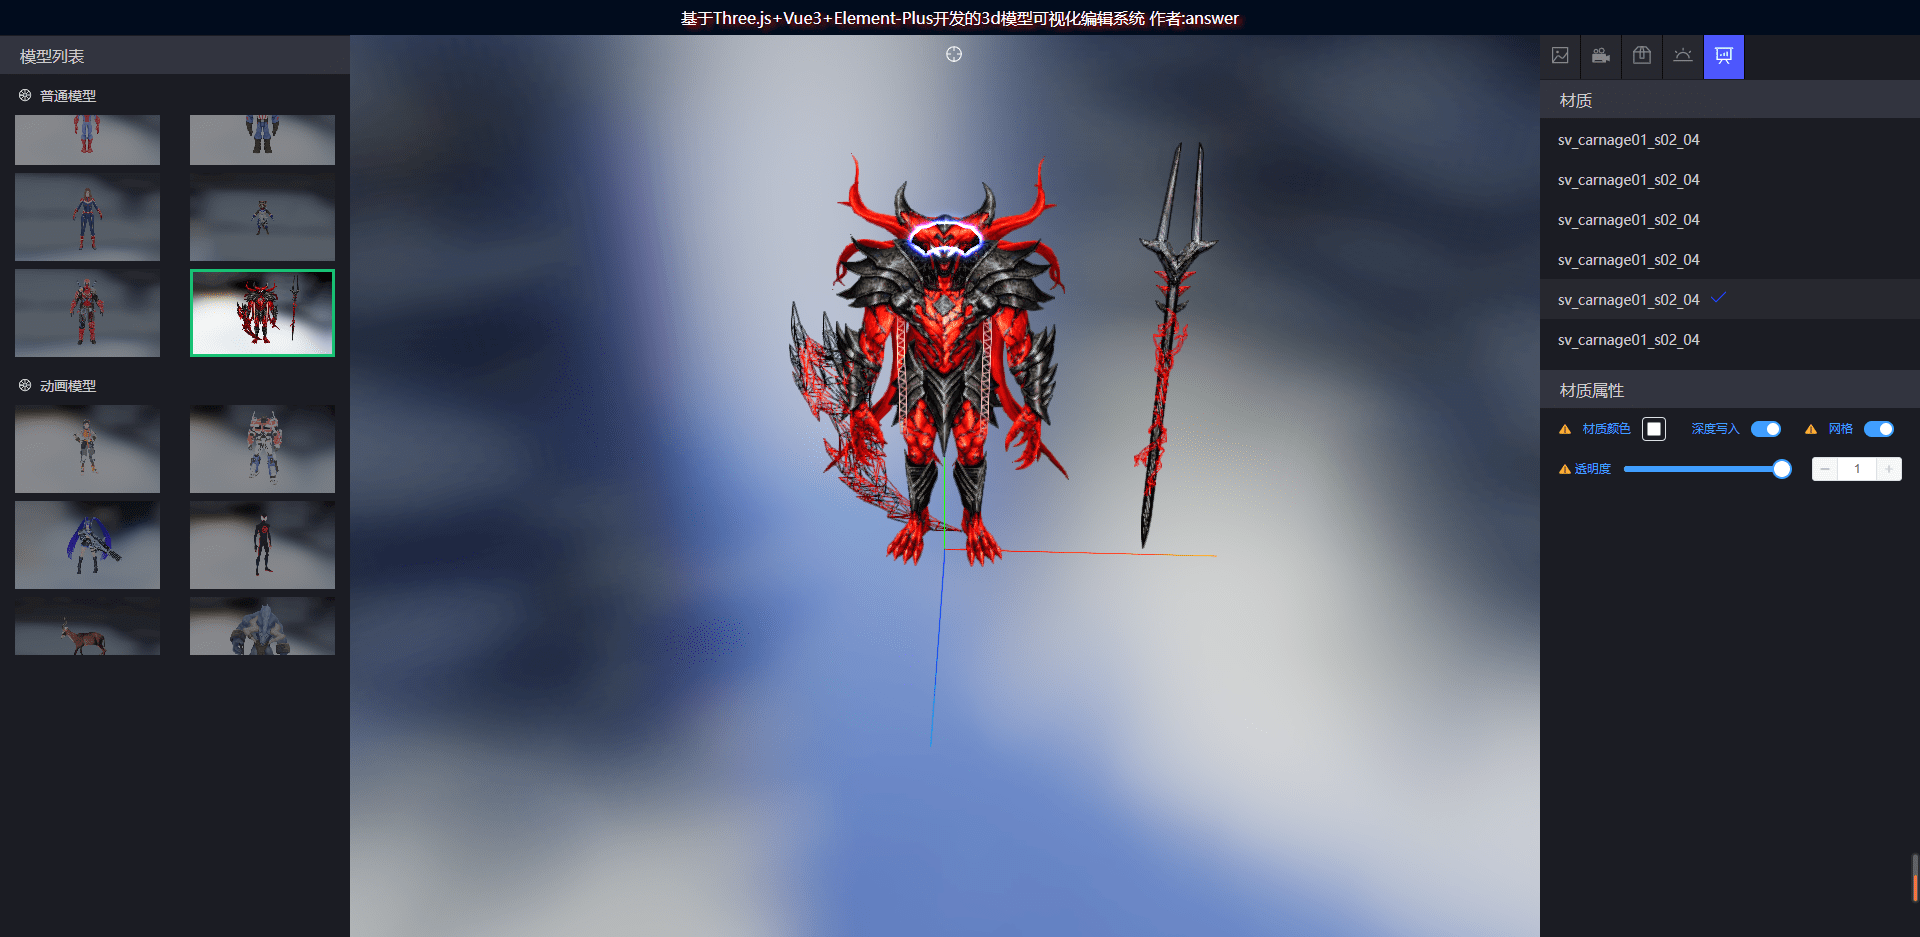
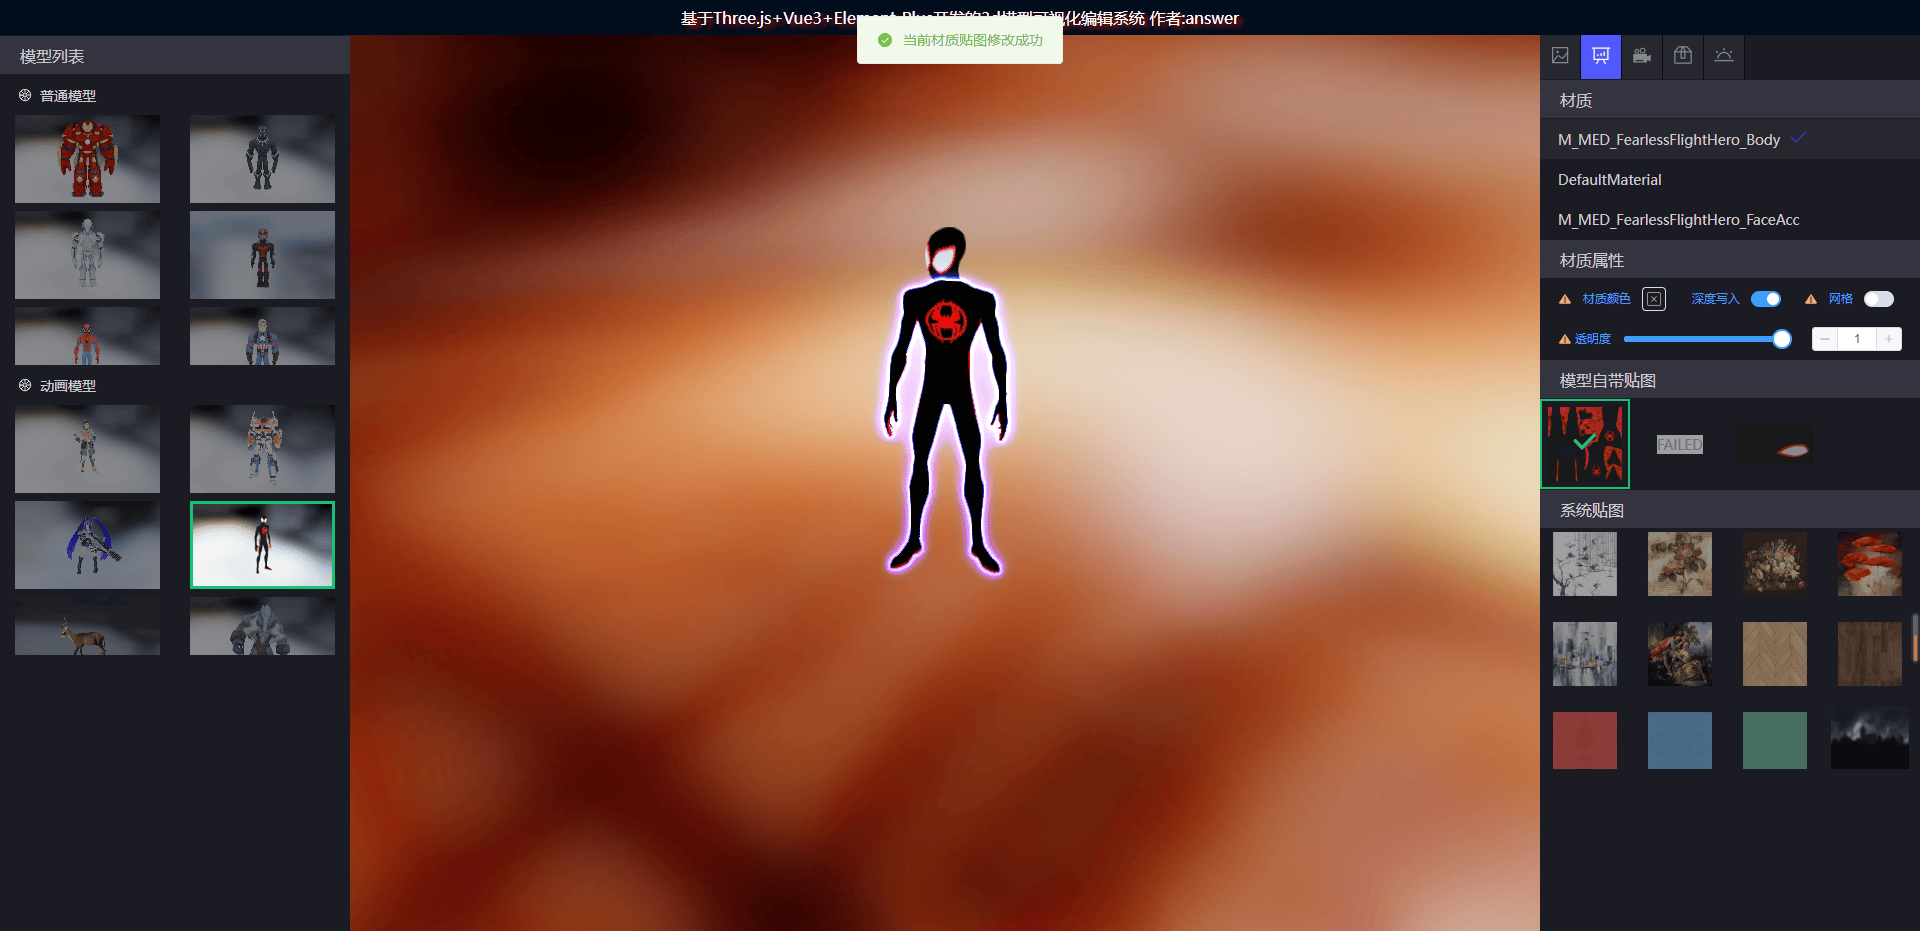
新增系统贴图功能

diff --git a/src/components/ModelEditPanel/EditMaterial.vue b/src/components/ModelEditPanel/EditMaterial.vue
@@ -5,7 +5,7 @@
     </div>
     <!-- 材质列表 -->
     <div class="options">
-      <el-scrollbar max-height="250px">
+      <el-scrollbar max-height="240px">
         <div
           class="option"
           :class="state.selectMeshUuid == mesh.uuid ? 'option-active' : ''"
@@ -92,7 +92,7 @@
     </div>
     <div class="header">模型自带贴图</div>
     <div class="options" :class="optionDisabled">
-      <el-scrollbar max-height="220px">
+      <el-scrollbar max-height="100px">
         <el-row>
           <el-col
             :span="6"
@@ -100,25 +100,51 @@
             v-for="map in state.modelTextureMap"
             :key="map.mapId"
           >
-            <el-image
+            <div
               @click="onChangeModelMap(map)"
+              class="image-box"
               :class="activeTextureMap == map.mapId ? 'active' : ''"
-              :src="map.url"
-              class="el-map"
-              fit="cover"
-            />
+            >
+              <el-image :src="map.url" class="el-map" fit="cover" />
+              <div class="select" v-if="activeTextureMap == map.mapId">
+                <el-icon color="#18c174" :size="26"><Select /></el-icon>
+              </div>
+            </div>
           </el-col>
         </el-row>
       </el-scrollbar>
     </div>
     <div class="header">系统贴图</div>
-    <div class="option"></div>
+    <div class="options" :class="optionDisabled">
+      <el-scrollbar max-height="240px">
+        <el-row>
+          <el-col
+            :span="6"
+            :style="{ textAlign: 'center' }"
+            v-for="map in mapImageList"
+            :key="map.id"
+          >
+            <div
+              @click="onChangeSystemModelMap(map)"
+              class="image-box"
+              :class="activeTextureMap == map.id ? 'active' : ''"
+            >
+              <el-image :src="map.url" class="el-map" fit="cover" />
+              <div class="select" v-if="activeTextureMap == map.id">
+                <el-icon color="#18c174" :size="26"><Select /></el-icon>
+              </div>
+            </div>
+          </el-col>
+        </el-row>
+      </el-scrollbar>
+    </div>
   </div>
 </template>
 <script setup>
 import { ref, reactive, computed, onMounted, getCurrentInstance, watch } from "vue";
 import { useStore } from "vuex";
 import { PREDEFINE_COLORS } from "@/config/constant";
+import { mapImageList } from "@/config/model";
 import * as THREE from "three";
 import { ElMessage } from "element-plus";
 
@@ -204,6 +230,18 @@ const onChangeModelMap = (map) => {
   });
   ElMessage.success("当前材质贴图修改成功");
 };
+// 修改当前材质贴图
+const onChangeSystemModelMap = (map) => {
+  activeTextureMap.value = map.id;
+  state.modelApi.onSetSystemModelMap(map);
+  Object.assign(config, {
+    color: null,
+    wireframe: false,
+    depthWrite: true,
+    opacity: 1,
+  });
+  ElMessage.success("当前材质贴图修改成功");
+};
 </script>
 <style scoped lang="scss">
 .grid-txt {
@@ -214,14 +252,26 @@ const onChangeModelMap = (map) => {
 .options {
   max-width: 380px;
 }
-.el-map {
+.image-box {
   width: 90px;
   height: 90px;
-  padding: 6px;
+  display: flex;
+  align-items: center;
+  justify-content: center;
   box-sizing: border-box;
   cursor: pointer;
+  opacity: 0.6;
+  position: relative;
+  .el-map {
+    padding: 6px;
+  }
+  .select {
+    position: absolute;
+  }
 }
+
 .active {
   border: 2px solid #18c174;
+  opacity: 1;
 }
 </style>

diff --git a/src/views/renderModel.js b/src/views/renderModel.js
@@ -164,6 +164,8 @@ class renderModel {
 		this.renderAnimation = requestAnimationFrame(() => this.sceneAnimation())
 		this.effectComposer.render()
 		this.controls.update()
+		//this.renderer.render(this.scene, this.camera)
+
 	}
 	// 监听鼠标点击模型
 	addEvenListMouseLiatener() {
@@ -220,10 +222,10 @@ class renderModel {
 								//设置材质可接收阴影
 								v.castShadow = true
 								if (v.material) {
-						    		const materials = Array.isArray(v.material) ? v.material : [v.material]
-									const {url,mapId} = this.getModelMaps(materials, uuid)
-									 const mesh ={
-										material:v.material,
+									const materials = Array.isArray(v.material) ? v.material : [v.material]
+									const { url, mapId } = this.getModelMaps(materials, uuid)
+									const mesh = {
+										material: v.material,
 										url,
 										mapId
 									}
@@ -243,9 +245,9 @@ class renderModel {
 									})
 									v.mapId = uuid
 									this.modelTextureMap = [{
-										material:v.material,
+										material: v.material,
 										url: map,
-										mapId:uuid
+										mapId: uuid
 									}]
 								}
 							}
@@ -647,6 +649,20 @@ class renderModel {
 			name,
 		})
 		mesh.mapId = mapId
+	}
+	// 设置模型贴图
+	onSetSystemModelMap({ id, url }) {
+		const uuid = store.state.selectMesh.uuid
+		const mesh = this.scene.getObjectByProperty('uuid', uuid)
+		const { name, color } = mesh.material
+		const mapTexture = new THREE.TextureLoader().load(url)
+		mesh.material = new THREE.MeshLambertMaterial({
+			map: mapTexture,
+			transparent: true,
+			color,
+			name,
+		})
+		mesh.mapId = id
 	}
 }
 export default renderModel

diff --git a/src/config/model.js b/src/config/model.js
@@ -314,5 +314,68 @@ const ambientLightList = [
 	},
 ]
 
+const mapImageList =[
+	{
+		id: Math.random()*100,
+		url: require(`@/assets/maps/5.jpg`)
+	},
+	{
+		id: Math.random()*100,
+		url: require(`@/assets/maps/6.jpg`)
+	},
+	{
+		id: Math.random()*100,
+		url: require(`@/assets/maps/7.jpg`)
+	},
+	{
+		id: Math.random()*100,
+		url: require(`@/assets/maps/8.jpg`)
+	},
+	{
+		id: Math.random()*100,
+		url: require(`@/assets/maps/9.jpg`)
+	},
+	{
+		id: Math.random()*100,
+		url: require(`@/assets/maps/10.jpg`)
+	},
+	{
+		id: Math.random()*100,
+		url: require(`@/assets/maps/11.png`)
+	},
+	{
+		id: Math.random()*100,
+		url: require(`@/assets/maps/12.jpg`)
+	},
+	{
+		id: Math.random()*100,
+		url: require(`@/assets/maps/13.jpg`)
+	},
+	{
+		id: Math.random()*100,
+		url: require(`@/assets/maps/14.png`)
+	},
+	{
+		id: Math.random()*100,
+		url: require(`@/assets/maps/15.jpg`)
+	},
+	{
+		id: Math.random()*100,
+		url: require(`@/assets/maps/16.jpg`)
+	},
+	{
+		id: Math.random()*100,
+		url: require(`@/assets/maps/17.jpg`)
+	},
+	{
+		id: Math.random()*100,
+		url: require(`@/assets/maps/18.jpg`)
+	},
+	{
+		id: Math.random()*100,
+		url: require(`@/assets/maps/19.jpg`)
+	},
+	...viewImageList
+]
 
-export { modelList, backgrundList, viewImageList, ambientLightList }
+export { modelList, backgrundList, viewImageList, ambientLightList ,mapImageList }

diff --git a/src/components/ModelEditPanel/index.vue b/src/components/ModelEditPanel/index.vue
@@ -21,6 +21,10 @@
       <div v-show="activeTab == 'EditBackground'">
         <edit-background></edit-background>
       </div>
+      <!-- 材质 -->
+      <div v-show="activeTab == 'EditMaterial'">
+        <edit-material></edit-material>
+      </div>
       <!-- 动画 -->
       <div v-show="activeTab == 'EditAnimation'">
         <edit-animation></edit-animation>
@@ -32,10 +36,6 @@
       <!-- 灯光 -->
       <div v-show="activeTab == 'EditLight'">
         <edit-light></edit-light>
-      </div>
-      <!-- 材质 -->
-      <div v-show="activeTab == 'EditMaterial'">
-        <edit-material></edit-material>
       </div>
     </div>
   </div>
@@ -54,6 +54,11 @@ const panelTabs = [
     icon: "Picture",
   },
   {
+    name: "材质",
+    key: "EditMaterial",
+    icon: "DataAnalysis",
+  },
+  {
     name: "模型动画",
     key: "EditAnimation",
     icon: "VideoCameraFilled",
@@ -68,11 +73,7 @@ const panelTabs = [
     key: "EditLight",
     icon: "Sunrise",
   },
-  {
-    name: "材质",
-    key: "EditMaterial",
-    icon: "DataAnalysis",
-  },
+
 ];
 const activeTab = ref("EditMaterial");
 </script>
@@ -101,4 +102,3 @@ const activeTab = ref("EditMaterial");
   }
 }
 </style>
-

diff --git a/src/views/modelPage.vue b/src/views/modelPage.vue
@@ -63,6 +63,7 @@ onMounted(async () => {
 <style lang="less" scoped>
 .model-page {
   width: 100%;
+  background-color: #1b1c23;
   .model-header {
     height: 35px;
     width: 100%;
